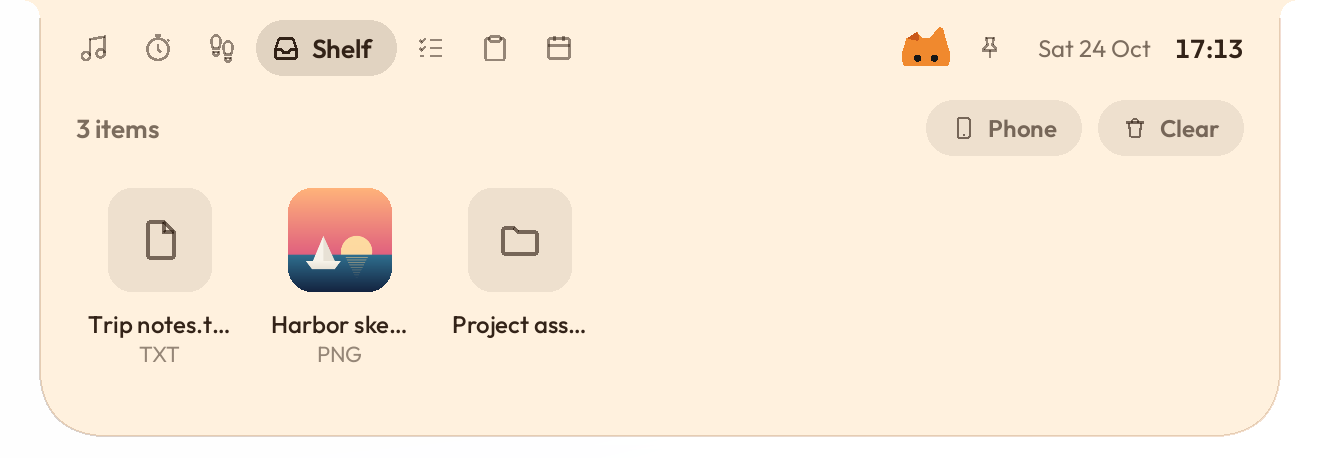
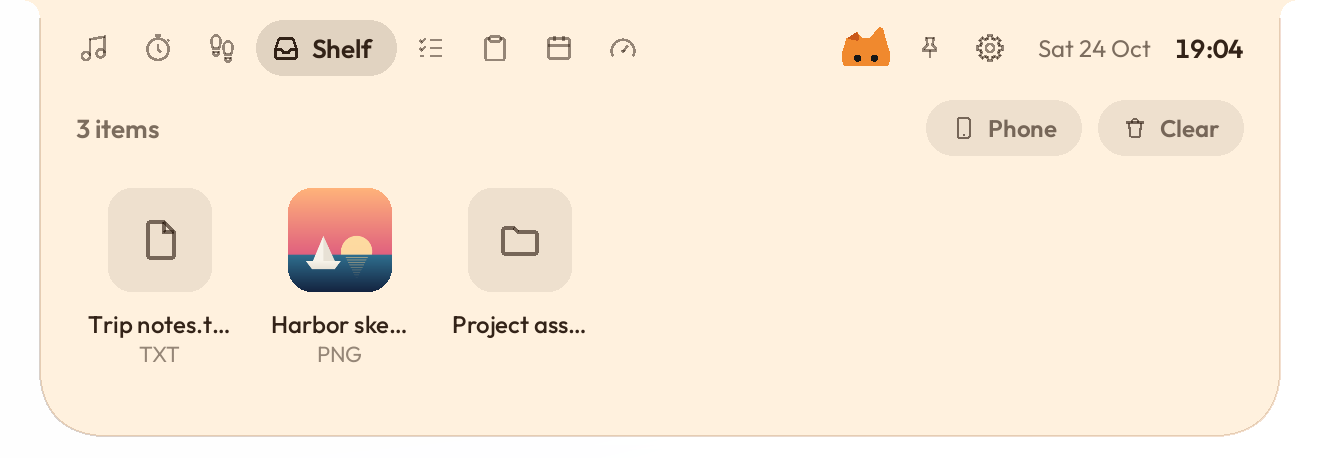
Website: Settings (0.1.10) and the System page (0.1.11) (#26)
The page now names 0.1.11 and shows what 0.1.10 and 0.1.11 added:

- New in 0.1.10, Settings right in the island: the gear beside the pin,
  the Oyenza account first, then theme, idle look and the switches.
- New in 0.1.11, System: CPU, memory, drives, network and battery with
  one-minute charts (copy from the System page session).
- Eight quick pages (System joined them); the island closes as soon as the
  pointer leaves; kanji lines get romaji since 0.1.10 (needs Windows'
  Japanese typing on Windows 11); YouTube titles with subtitle tags find
  lyrics; the Today rings open the System page.
- How-tos point at the gear: the Oyen theme, Oyenza sign-in, Disconnect,
  and turning pronunciation off ("in Settings or the tray menu").

Every island shot is re-cut with tools/site_shots.py from the published
0.1.11 poni.exe (portable zip): Classic, Oyen and the Korean pair, run in
the same minute so the clocks match. site_shots.py keeps page-settings and
page-system too.

Changed region(s): [[0.6212, 0.0611, 0.7765, 0.1528], [0.9008, 0.0917, 0.9629, 0.1223], [0.4659, 0.0917, 0.497, 0.1223]]

diff --git a/site/index.html b/site/index.html
@@ -274,7 +274,7 @@ footer a { color: var(--muted); }
           </a>
           <a class="btn btn-line" href="https://github.com/lucacadalora/poni">Source on GitHub</a>
         </div>
-        <p class="small">Free and open source (MIT) · <span data-release="size">1.2 MB</span> download · No account needed · <a data-release="notes" href="https://github.com/lucacadalora/poni/releases/latest">What's new in <span data-release="version">0.1.9</span></a></p>
+        <p class="small">Free and open source (MIT) · <span data-release="size">1.2 MB</span> download · No account needed · <a data-release="notes" href="https://github.com/lucacadalora/poni/releases/latest">What's new in <span data-release="version">0.1.11</span></a></p>
         <div class="look-switch" role="group" aria-label="Island look">
           <button type="button" data-look="classic" aria-pressed="true"><span class="dot"></span>Classic</button>
           <button type="button" data-look="oyen" aria-pressed="false"><span class="dot dot-oyen"></span>Oyen theme</button>
@@ -342,8 +342,8 @@ footer a { color: var(--muted); }
     <div class="wrap">
       <div class="head">
         <p class="eyebrow">Point at it</p>
-        <h2>Seven quick pages, one hover away</h2>
-        <p>Point at the island or click it and it opens. Scroll over the header to switch pages. Sign in to Oyenza and an eighth page joins them.</p>
+        <h2>Eight quick pages, one hover away</h2>
+        <p>Point at the island or click it and it opens; move away and it closes at once. Scroll over the header to switch pages; the gear on the right opens Settings. Sign in to Oyenza and a ninth page joins them.</p>
       </div>
       <div class="music">
         <div class="sky"><div class="island">
@@ -352,7 +352,7 @@ footer a { color: var(--muted); }
         </div></div>
         <div>
           <h3>Music, with the words</h3>
-          <p>Controls for whatever is playing: Spotify, Apple Music, YouTube in your browser, or any app that shows up in Windows' media controls. Lyrics scroll in time with the song, from the free LRCLIB library, or Apple Music's own synced lyrics if you have a subscription.</p>
+          <p>Controls for whatever is playing: Spotify, Apple Music, YouTube in your browser, or any app that shows up in Windows' media controls. Lyrics scroll in time with the song, from the free LRCLIB library, or Apple Music's own synced lyrics if you have a subscription. YouTube videos find theirs too, even when the title carries subtitle tags or puts the song name first.</p>
           <img class="oyen-pose" src="brand/art/poses/oyen-music.webp" alt="Oyen in headphones" width="480" height="560" loading="lazy">
         </div>
       </div>
@@ -360,7 +360,7 @@ footer a { color: var(--muted); }
         <div>
           <p class="eyebrow">New in 0.1.7</p>
           <h3>Read along in Korean, Japanese and Chinese</h3>
-          <p>Like Apple Music's Show Pronunciation, each word of a lyric line gets its reading in Latin letters, set small underneath: the syllables for Korean, romaji for Japanese and pinyin with tone marks for Chinese. Turn it off in the tray menu.</p>
+          <p>Like Apple Music's Show Pronunciation, each word of a lyric line gets its reading in Latin letters, set small underneath: the syllables for Korean, romaji for Japanese and pinyin with tone marks for Chinese. Since 0.1.10, Japanese lines with kanji get romaji too. Those readings come from Windows' own Japanese reader, which on Windows 11 needs Japanese typing added. Turn it off in Settings or the tray menu.</p>
         </div>
         <div class="sky"><div class="island">
           <img class="look-classic" src="assets/shots/classic/page-media-ko.webp" alt="The Music page with Korean lyrics, each word's reading in Latin letters set small underneath" width="660" height="227" loading="lazy">
@@ -409,7 +409,7 @@ footer a { color: var(--muted); }
           </div></div></div>
         </article>
         <article class="card">
-          <div class="card-top"><img src="brand/art/poses/oyen-today.webp" alt="" width="480" height="499" loading="lazy"><div><h3>Today</h3><p>The date and calendar, plus CPU, memory, disk and battery at a glance.</p></div></div>
+          <div class="card-top"><img src="brand/art/poses/oyen-today.webp" alt="" width="480" height="499" loading="lazy"><div><h3>Today</h3><p>The date and calendar, plus CPU, memory, disk and battery at a glance. Click one to open it on the System page.</p></div></div>
           <div></div>
           <div class="shot"><div class="sky"><div class="island">
             <img class="look-classic" src="assets/shots/classic/page-today.webp" alt="The Today page" width="660" height="243" loading="lazy">
@@ -426,6 +426,28 @@ footer a { color: var(--muted); }
         <div class="sky"><div class="island">
           <img class="look-classic" src="assets/shots/classic/page-shelf-phone-ask.webp" alt="The Shelf with Phone drop open: iPhone wants to send 3 files, with Decline and Accept" width="660" height="393" loading="lazy">
           <img class="look-oyen" src="assets/shots/oyen/page-shelf-phone-ask.webp" alt="Phone drop asking to accept 3 files from an iPhone, in the Oyen theme" width="660" height="393" loading="lazy">
+        </div></div>
+      </div>
+      <div class="music" id="settings">
+        <div class="sky"><div class="island">
+          <img class="look-classic" src="assets/shots/classic/page-settings.webp" alt="The Settings page: Sign in with Oyenza at the top, then the theme, the idle look and six switches" width="660" height="277" loading="lazy">
+          <img class="look-oyen" src="assets/shots/oyen/page-settings.webp" alt="The Settings page in the Oyen theme" width="660" height="277" loading="lazy">
+        </div></div>
+        <div>
+          <p class="eyebrow">New in 0.1.10</p>
+          <h3>Settings, right in the island</h3>
+          <p>Press the gear beside the pin. Your Oyenza account comes first: sign in, see who is signed in, or disconnect. Below it are the theme, the idle look, and switches for lyrics, pronunciation, sounds, clipboard history, full-screen apps and starting with Windows. Changes apply at once.</p>
+        </div>
+      </div>
+      <div class="music flip" id="system">
+        <div>
+          <p class="eyebrow">New in 0.1.11</p>
+          <h3>System: your PC at a glance</h3>
+          <p>CPU, memory, drives, network and battery, each with the last minute as a chart, the apps using the most, and Task Manager one click away. It reads only while the page is open, from the same counters Task Manager uses: no driver, no admin rights, and nothing leaves your PC.</p>
+        </div>
+        <div class="sky"><div class="island">
+          <img class="look-classic" src="assets/shots/classic/page-system.webp" alt="The System page: CPU, memory, drives, network and battery, each with a one-minute chart" width="660" height="251" loading="lazy">
+          <img class="look-oyen" src="assets/shots/oyen/page-system.webp" alt="The System page in the Oyen theme" width="660" height="251" loading="lazy">
         </div></div>
       </div>
     </div>
@@ -467,7 +489,7 @@ footer a { color: var(--muted); }
         </ul>
         <div>
           <img src="brand/art/oyen-poni-asleep.webp" alt="Oyen asleep on the island while a song plays" width="900" height="654" loading="lazy" style="width:min(340px,100%)">
-          <p class="how">Right-click the island, then <kbd>Theme</kbd> › <kbd>Oyen</kbd>. Switch back to <kbd>Classic</kbd> any time.</p>
+          <p class="how">Open the island and press the gear, then <kbd>Theme</kbd> › <kbd>Oyen</kbd>. Switch back to <kbd>Classic</kbd> any time.</p>
         </div>
       </div>
     </div>
@@ -479,14 +501,14 @@ footer a { color: var(--muted); }
         <div>
           <p class="eyebrow">Oyenza account · New in 0.1.9</p>
           <h2>Your Oyenza, at the top of your screen</h2>
-          <p>Sign in with your <a href="https://oyenza.app" style="color:#fff">oyenza.app</a> account the way you sign in on a TV: the island shows a code and you approve this PC at oyenza.app/connect. No password is ever typed into Oyen Poni. An Oyenza page then joins the island.</p>
+          <p>Sign in with your <a href="https://oyenza.app" style="color:#fff">oyenza.app</a> account the way you sign in on a TV: press the gear, choose Sign in with Oyenza, and approve the code the island shows at oyenza.app/connect. No password is ever typed into Oyen Poni. An Oyenza page then joins the island.</p>
           <ul>
             <li><span><b>Money as it arrives.</b> When Oyenza logs money coming in, the island tells you, with the amount and sender hidden until you click Show.</span></li>
             <li><span><b>Bills before they're due.</b> Subscriptions and card due dates for the next 7 days, and a reminder the day before each one.</span></li>
             <li><span><b>Note a spend in a second.</b> Type "kopi 25rb" on the Oyenza page and press Enter: it goes straight to Oyenza, with 10 seconds to undo.</span></li>
             <li><span><b>Your steps, next.</b> Steps from Apple Health or Health Connect will come through Oyenza in a later version.</span></li>
           </ul>
-          <p class="fine">Signing in is optional. This PC gets a key of its own, never your password: it sees money coming in and bills due, and saves the spends you type, nothing else. Disconnect it from the island's Oyenza menu, or in oyenza.app under Connected apps.</p>
+          <p class="fine">Signing in is optional. This PC gets a key of its own, never your password: it sees money coming in and bills due, and saves the spends you type, nothing else. Disconnect it in the island's Settings, or in oyenza.app under Connected apps.</p>
         </div>
         <img src="brand/art/oyen-poni-sit.webp" alt="Oyen sitting on the island while a song plays" width="893" height="1200" loading="lazy">
       </div>

diff --git a/tools/site_shots.py b/tools/site_shots.py
@@ -35,7 +35,7 @@ ROOT = Path(__file__).resolve().parent.parent
 KEEP = {
     "idle-clock", "idle-eyes", "media-activity", "timer-activity", "volume-hud", "bluetooth-hud",
     "page-media", "page-focus", "page-health", "page-shelf", "page-tasks", "page-clipboard", "page-today",
-    "page-shelf-phone-ask", "oyenza-money", "page-oyenza", "page-oyenza-signin",
+    "page-shelf-phone-ask", "oyenza-money", "page-oyenza", "page-oyenza-signin", "page-settings", "page-system",
 }
 
 
